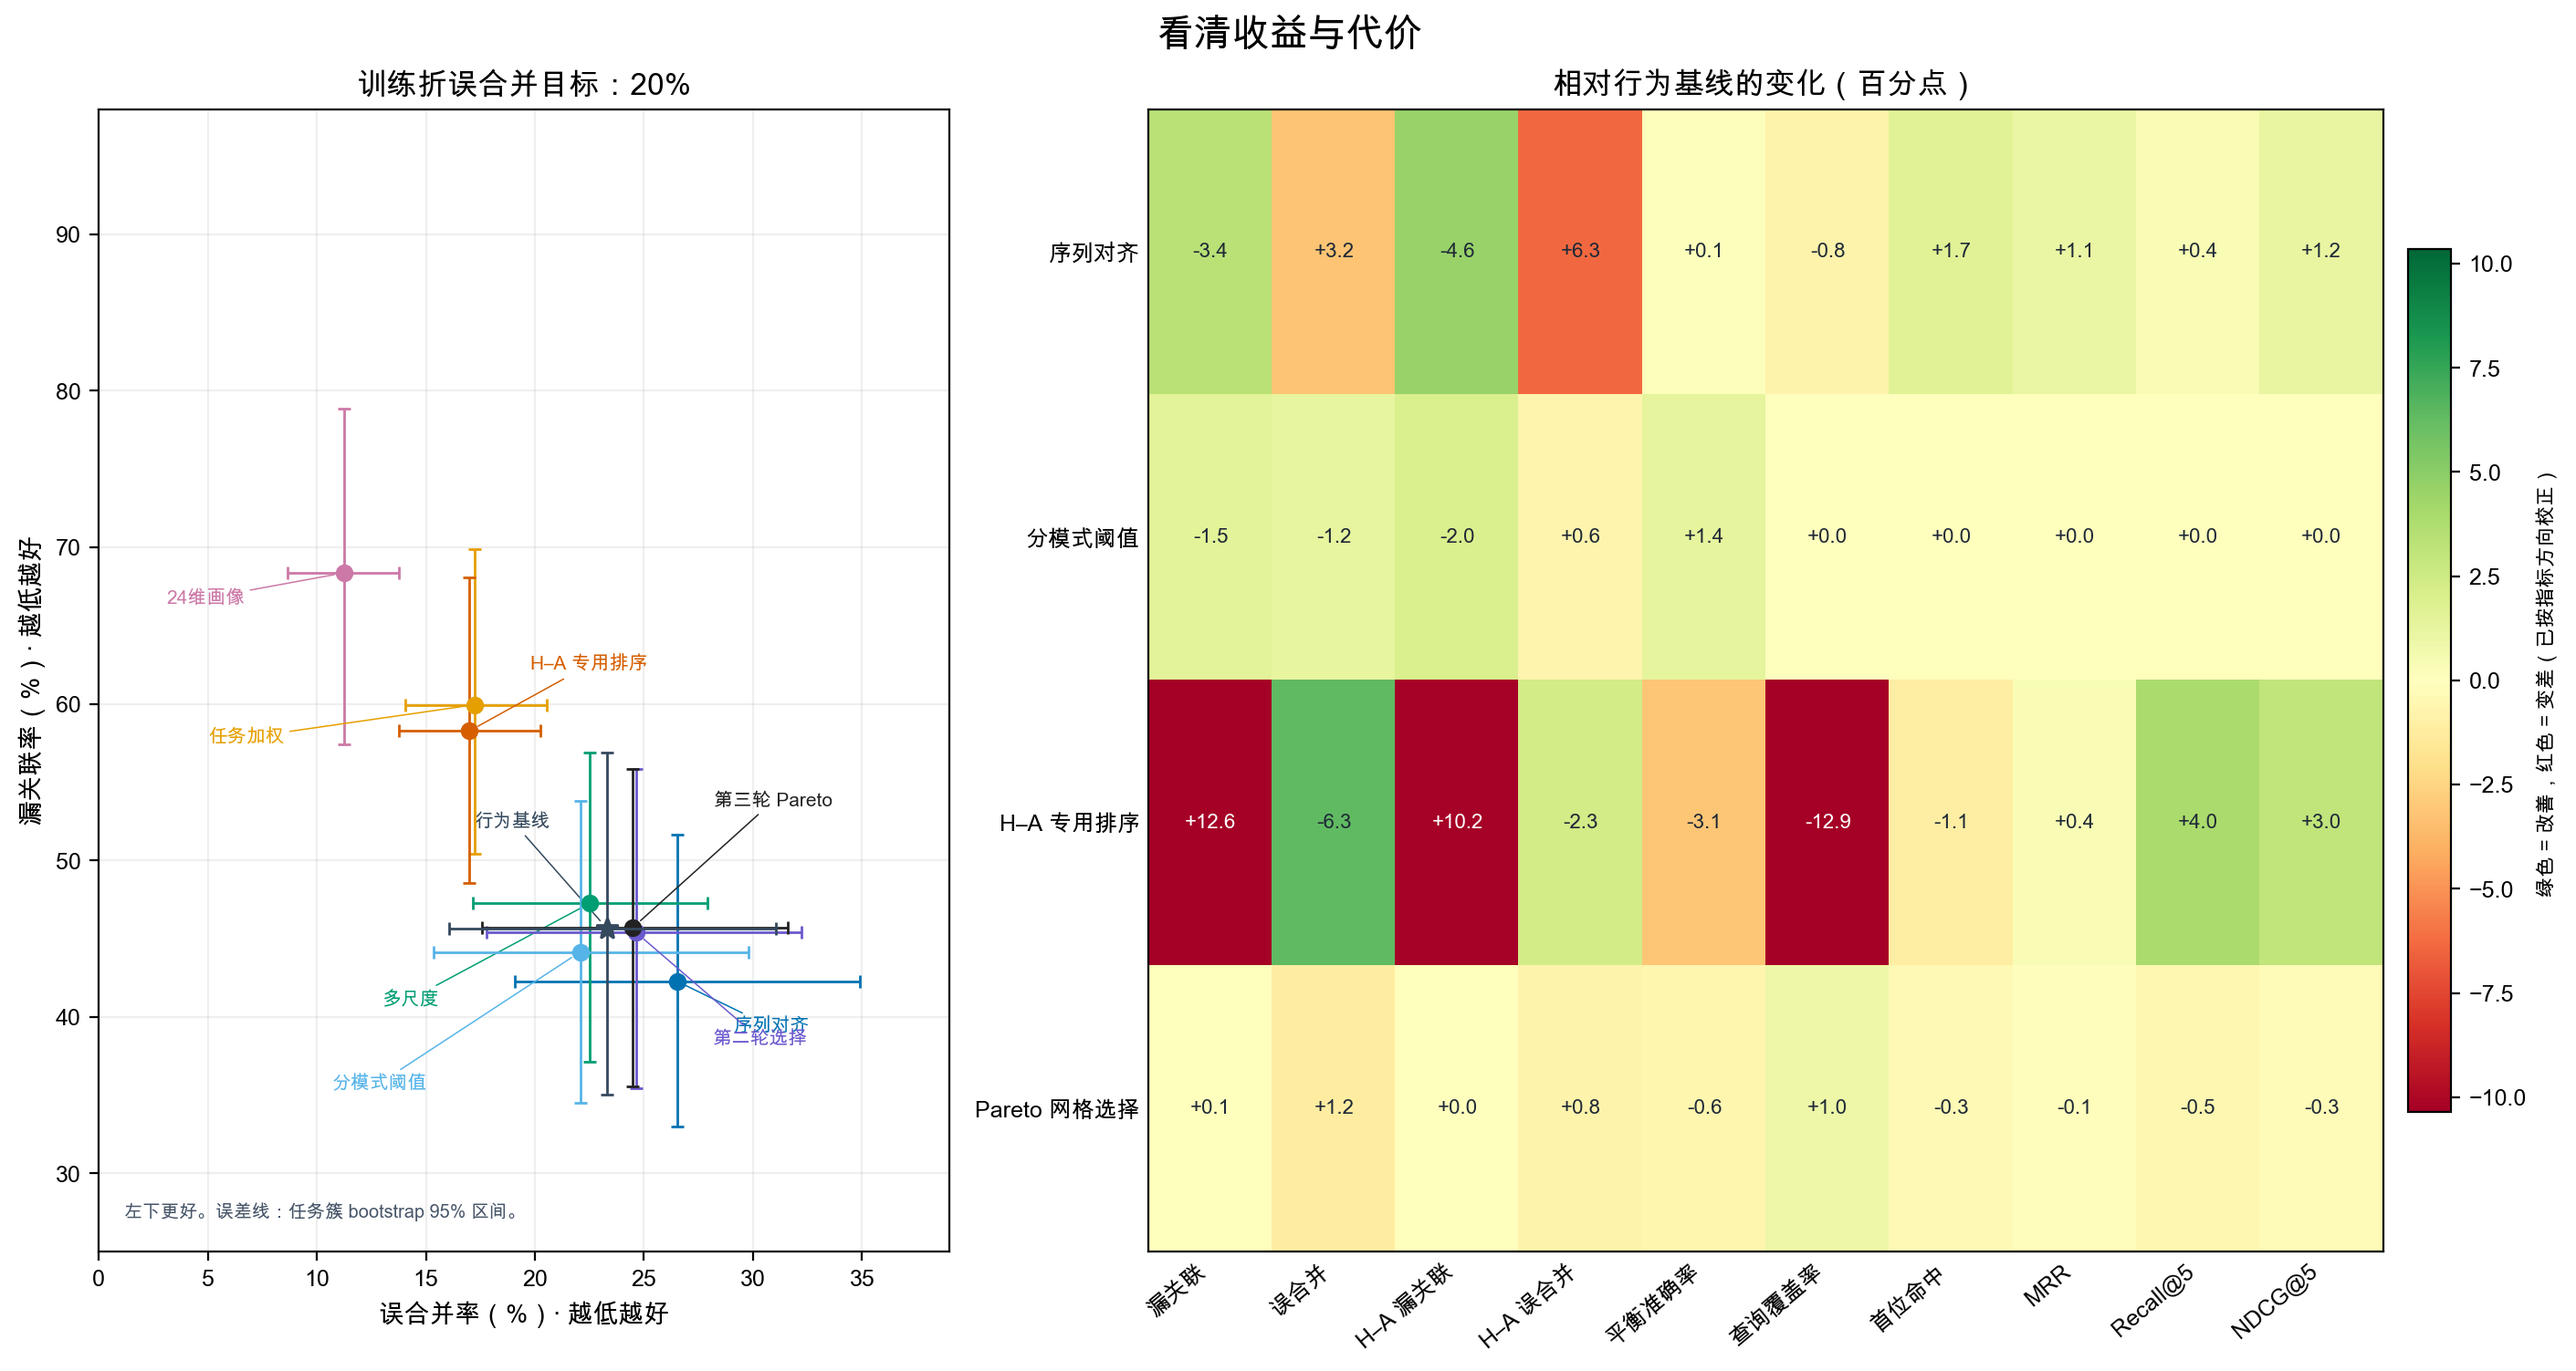
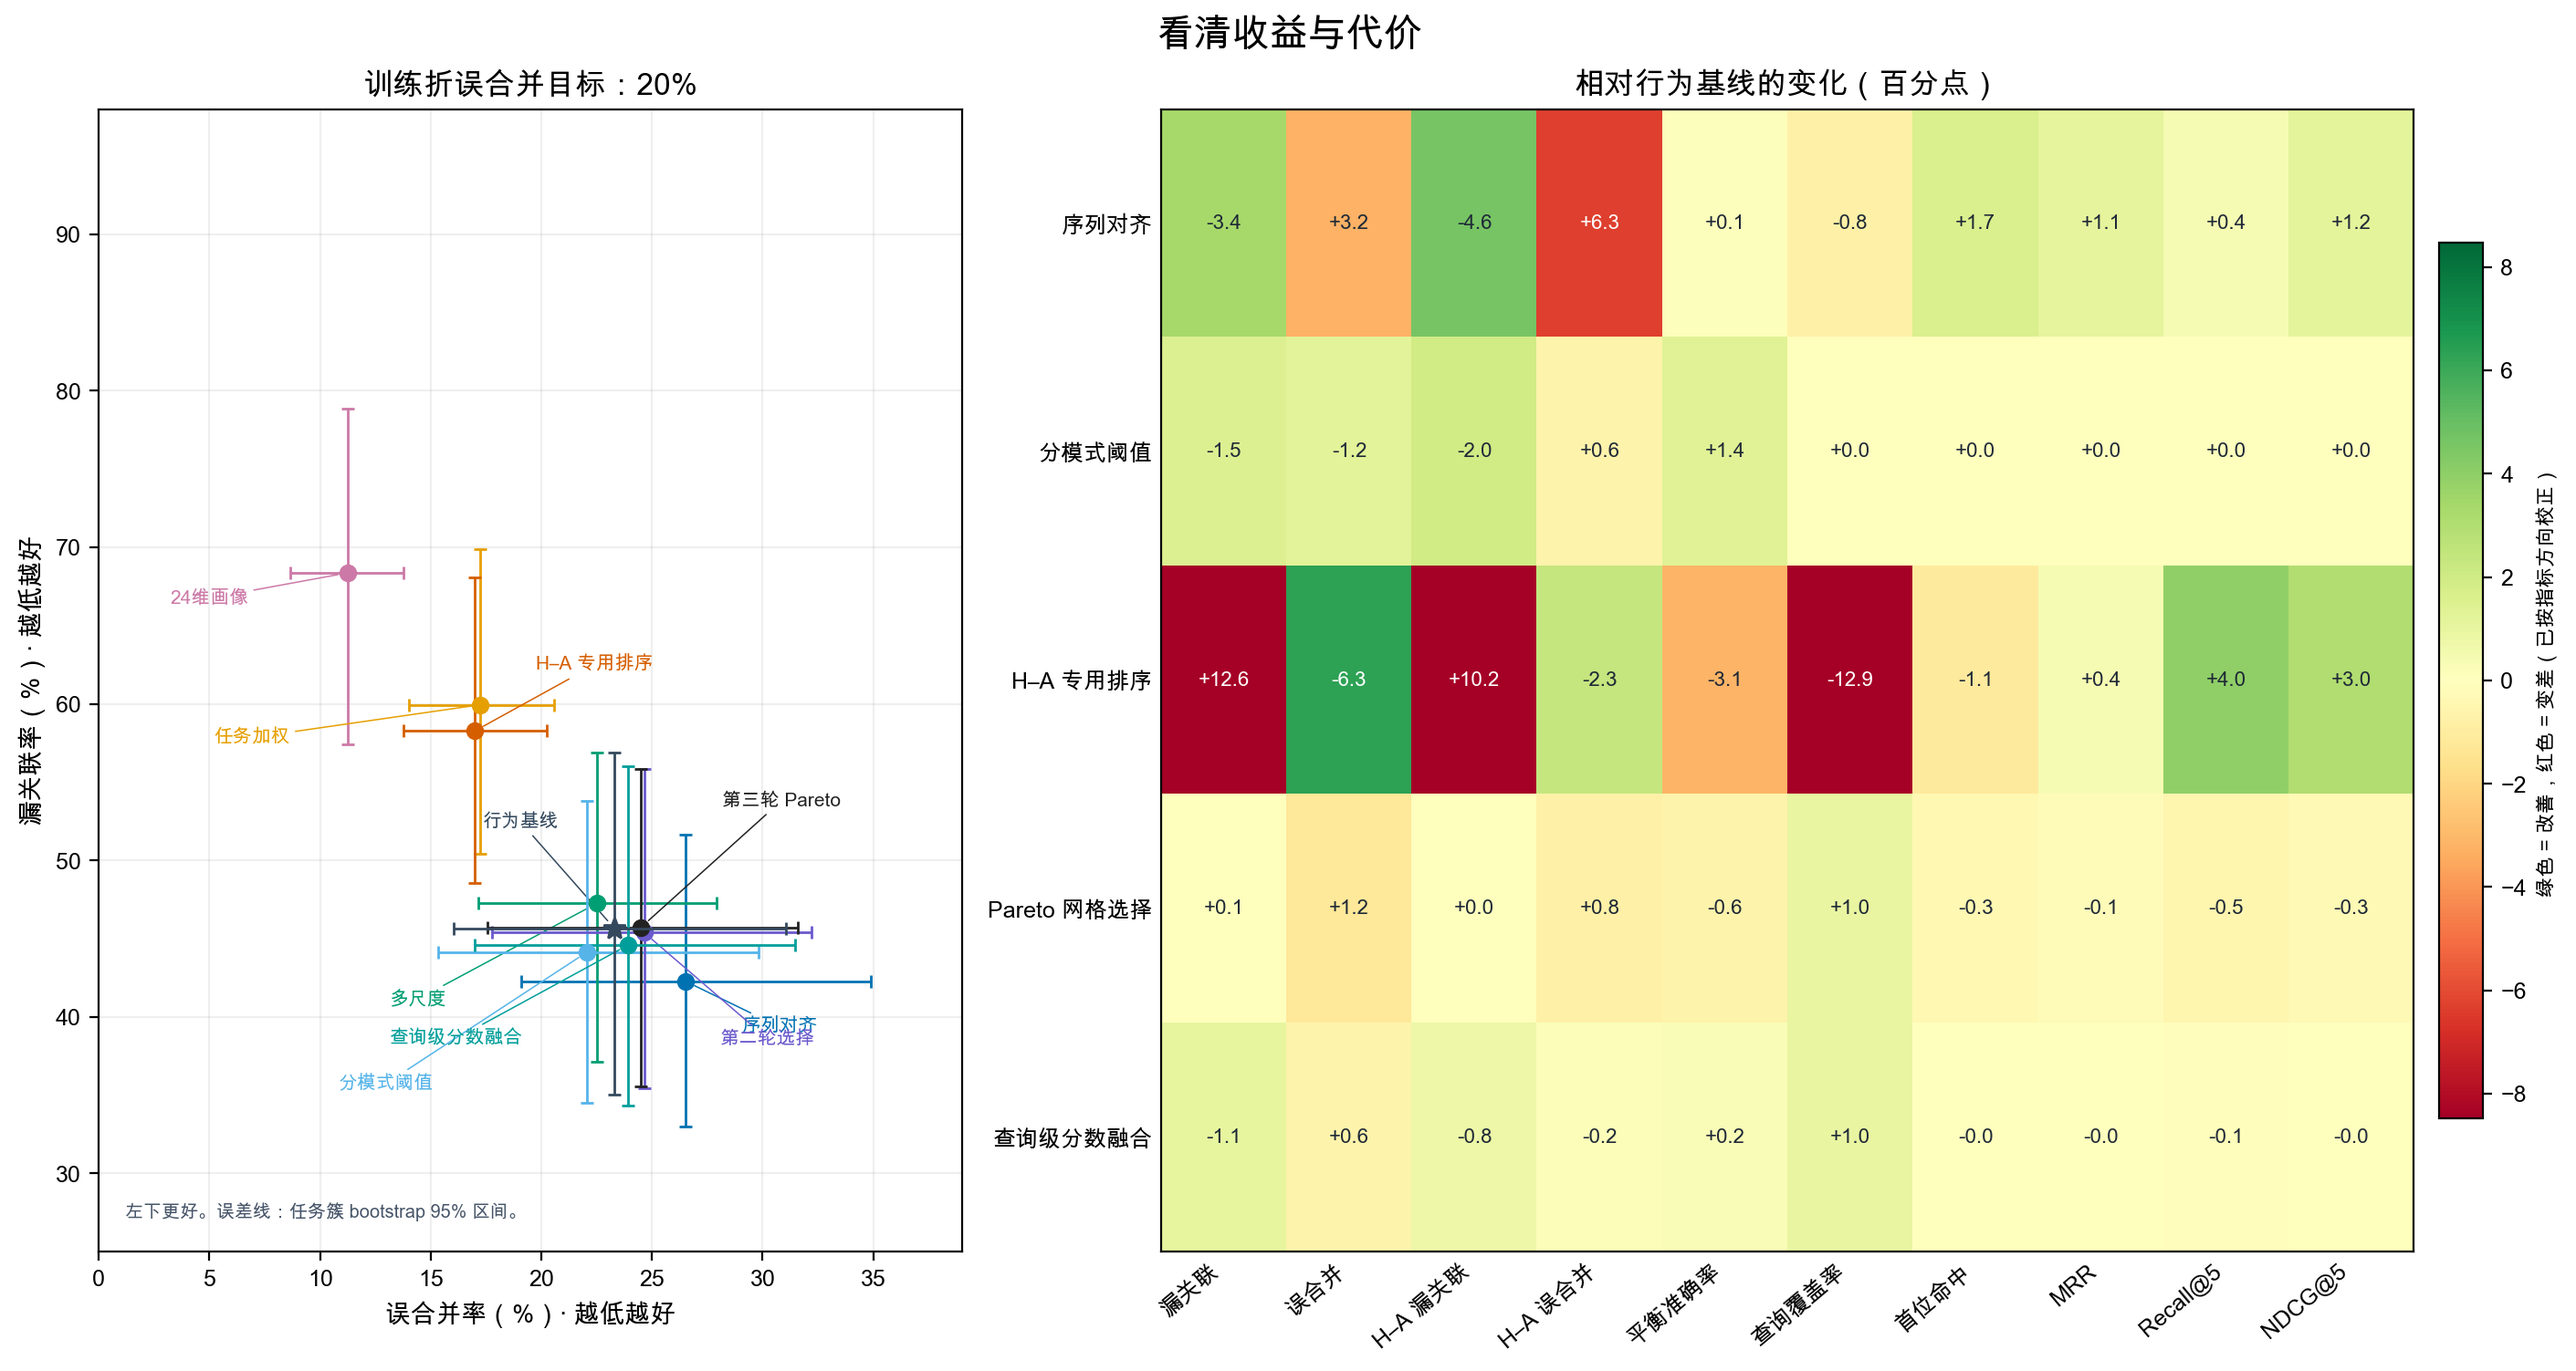
Publish query-rank recall optimization results

diff --git a/execution-mode-behavior-correlation.html b/execution-mode-behavior-correlation.html
@@ -47,7 +47,7 @@
 <div class="result-intro">
 <h2 data-en="Earlier result: execution-mode evidence recovered links and introduced false links">先前结果：执行方式信号找回部分轨迹，也带来误关联</h2>
 <p data-en="Compared with behavior-only ranking, adding the predicted Human/Agent score improves the top-ranked match rate by 3.6 percentage points. Missed links between same-task Human and Agent traces fall by 12.7 points. But false links between different-task Human and Agent traces rise by 11.9 points, and the overall false-link rate increases from 23.3% to 24.5%.">与只看行为相比，加入预测的“人类/Agent”分数后，首位命中率提高 3.6 个百分点；同题人类—Agent 轨迹漏关联下降 12.7 个百分点。但异题人类—Agent 轨迹错误关联增加 11.9 个百分点，整体错误关联率从 23.3% 升到 24.5%。</p>
-<p class="caption" data-en="Top-ranked match rate asks whether the first result comes from the same CTF task. Here, “same task” is only a benchmark label; it does not mean the traces came from the same attack. In plain terms, execution-mode scores recover some cross-mode matches but also connect more unrelated traces.">首位命中率看排名第一的候选是否来自同一道 CTF 题。“同题”只是基准标签，不代表来自同一次攻击。简单来说，执行方式分数找回了一些跨方式轨迹，也让更多无关轨迹被连在一起。</p><p class="caption"><a href="#recall-optimization" data-en="See the three-round follow-up experiment">查看后续三轮优化实验</a></p>
+<p class="caption" data-en="Top-ranked match rate asks whether the first result comes from the same CTF task. Here, “same task” is only a benchmark label; it does not mean the traces came from the same attack. In plain terms, execution-mode scores recover some cross-mode matches but also connect more unrelated traces.">首位命中率看排名第一的候选是否来自同一道 CTF 题。“同题”只是基准标签，不代表来自同一次攻击。简单来说，执行方式分数找回了一些跨方式轨迹，也让更多无关轨迹被连在一起。</p><p class="caption"><a href="#recall-optimization" data-en="See the four-round follow-up experiment">查看后续四轮优化实验</a></p>
 </div>
 <details class="source-details"><summary data-en="How did we identify execution mode from traces?">展开：识别器用了哪些轨迹特征？</summary><div class="study-table-wrap">
 <p class="caption" data-en="We compare three kinds of evidence: trace size and action mix, command names, and command order. Command names carry the strongest Human/Agent label signal in this dataset. Adding sequence statistics changes balanced accuracy by −2.0 points for logistic regression and +1.4 for ExtraTrees.">我们比较三类线索：轨迹长度与动作组成、命令名称、命令顺序。在这批数据中，命令名称对 Human/Agent 标签的区分信号最强。加入序列统计后，逻辑回归平衡准确率下降 2.0 个百分点，ExtraTrees 上升 1.4 个百分点。</p>
@@ -266,14 +266,15 @@ type=EXECVE msg=audit(1700000002.250:411): argc=2 a0=67726570 a1=2d6e</code></pr
 <noscript><p>页面需要启用 JavaScript 才能播放阶段动画；静态张量图仍可查看。</p></noscript>
 </div>
 <section aria-labelledby="recall-optimization-title" class="profile-result recall-result" id="recall-optimization">
-<div class="profile-result-head"><span class="tensor-kicker" data-en="THREE ROUNDS · TASK-HELD-OUT">三轮优化 · 按任务留出</span><h3 data-en="No method improved all ten metrics" id="recall-optimization-title">三轮实验都没找到十项指标同时变好的方法</h3><p data-en="We compared 177 traces across 40 task groups and three public CTF datasets. The nearest compromise lowered several missed-link rates, but raised Human–Agent false merges. A stricter selector chose a new method in only one of three held-out folds.">我们在 3 个公开 CTF 数据集的 177 条轨迹、40 个任务组上比较了多种方案。最接近折中的分模式阈值降低了几项漏关联，但增加了人类—Agent 误关联。更严格的筛选只在 3 折中的 1 折选出新方法。</p></div>
-<div aria-label="三种方案的主要关联指标" class="profile-result-cards recall-result-cards" data-en-aria-label="Key association metrics for three methods">
+<div class="profile-result-head"><span class="tensor-kicker" data-en="FOUR ROUNDS · TASK-HELD-OUT">四轮优化 · 按任务留出</span><h3 data-en="No method improved all ten metrics" id="recall-optimization-title">四轮实验都没找到十项指标同时变好的方法</h3><p data-en="We compared 177 traces across 40 task groups and three public CTF datasets. The fourth-round query-rank fusion reduced missed links and Human–Agent false merges, but increased overall false merges. The all-metric selector used the fusion in only one of three held-out folds.">我们在 3 个公开 CTF 数据集的 177 条轨迹、40 个任务组上比较了多种方案。第四轮查询级融合降低了漏关联和人类—Agent 误合并，但总体误合并上升。全指标筛选只在 3 折中的 1 折选用融合方法。</p></div>
+<div aria-label="四种方案的主要关联指标" class="profile-result-cards recall-result-cards" data-en-aria-label="Key association metrics for four methods">
 <article><h4 data-en="Behavior baseline">行为基线</h4><dl><div><dt data-en="Missed links">漏关联</dt><dd>45.7%</dd></div><div><dt data-en="False merges">误合并</dt><dd>23.3%</dd></div><div><dt data-en="Human–Agent false merges">人类—Agent 误合并</dt><dd>15.5%</dd></div></dl></article>
 <article class="profile-result-card-emphasis"><h4 data-en="Mode-specific thresholds">分模式阈值</h4><dl><div><dt data-en="Missed links">漏关联</dt><dd>44.2%</dd></div><div><dt data-en="False merges">误合并</dt><dd>22.1%</dd></div><div><dt data-en="Human–Agent false merges">人类—Agent 误合并</dt><dd>16.2%</dd></div></dl></article>
 <article><h4 data-en="Strict all-metric selection">严格全指标筛选</h4><dl><div><dt data-en="Missed links">漏关联</dt><dd>45.7%</dd></div><div><dt data-en="False merges">误合并</dt><dd>24.5%</dd></div><div><dt data-en="Human–Agent false merges">人类—Agent 误合并</dt><dd>16.3%</dd></div></dl></article>
+<article><h4 data-en="Query-rank fusion · selected in 1/3 folds">查询级分数融合 · 仅入选 1/3 折</h4><dl><div><dt data-en="Missed links">漏关联</dt><dd>44.6%</dd></div><div><dt data-en="False merges">误合并</dt><dd>23.9%</dd></div><div><dt data-en="Human–Agent false merges">人类—Agent 误合并</dt><dd>15.3%</dd></div></dl></article>
 </div>
-<p class="profile-result-delta" data-en="Mode-specific thresholds cut overall missed links by 1.5 points and false merges by 1.2, but increase Human–Agent false merges by 0.65 points (95% interval +0.33 to +1.04). The strict selector increases overall false merges by 1.20 points (+0.51 to +1.97). These results do not support an all-metric improvement.">分模式阈值让总体漏关联下降 1.50 个百分点、误合并下降 1.23 个百分点，但人类—Agent 误合并上升 0.65 个百分点（95% 区间 +0.33 至 +1.04）。严格筛选使总体误合并上升 1.20 个百分点（+0.51 至 +1.97）。现有结果不支持“所有指标都改善”。</p>
-<figure class="profile-result-figure"><img alt="误合并与漏关联权衡图，以及十项指标相对行为基线的百分点变化。" data-en-alt="False-merge versus missed-link tradeoffs and percentage-point changes across ten metrics relative to the behavior baseline." data-en-src="assets/recall-optimization-comparison-en.png" loading="lazy" src="assets/recall-optimization-comparison-zh.png"/><figcaption data-en="Left: held-out error rates with task-bootstrap 95% intervals. Right: ten metric changes; green means improvement after adjusting for metric direction. Ranking is unchanged by threshold-only methods. Full intervals and methods are in the report.">左图：留出任务上的误合并与漏关联率，误差线为任务簇 95% 区间。右图：十项指标的变化，颜色已按指标方向校正；单独调整阈值不会改变排序。完整区间和方法见实验报告。</figcaption></figure>
+<p class="profile-result-delta" data-en="Query-rank fusion reduced overall missed links by 1.05 points (95% interval −2.22 to −0.12) and Human–Agent false merges by 0.20 (−0.43 to −0.01), but raised overall false merges by 0.64 (+0.14 to +1.26). Ranking shifts were near zero and their intervals crossed zero. No tested policy improved all ten metrics.">查询级融合让总体漏关联下降 1.05 个百分点（95% 区间 −2.22 至 −0.12），人类—Agent 误合并下降 0.20（−0.43 至 −0.01），但总体误合并上升 0.64（+0.14 至 +1.26）。排序变化接近零且区间跨零。当前没有方案让十项指标同时改善。</p>
+<figure class="profile-result-figure"><img alt="四轮方法的误合并—漏关联权衡，以及十项指标相对行为基线的百分点变化。" data-en-alt="False-merge versus missed-link tradeoffs and percentage-point changes across ten metrics for four experiment rounds." data-en-src="assets/recall-optimization-comparison-en.png" loading="lazy" src="assets/recall-optimization-comparison-zh.png"/><figcaption data-en="Left: held-out error rates with task-bootstrap 95% intervals. Right: ten metric changes; green means improvement after adjusting for metric direction. Query-rank fusion is selected in one outer fold and falls back in two; threshold-only methods leave rankings unchanged. Full intervals and methods are in the report.">左图：留出任务上的误合并与漏关联率，误差线为任务簇 95% 区间。右图：十项指标的变化，颜色已按指标方向校正。查询级融合只在一个外层折选中，另外两折回退基线；单独调整阈值不会改变排序。完整区间和方法见实验报告。</figcaption></figure>
 <a class="profile-result-report" data-en="Read the experiment report" href="https://github.com/mcxiaoxiao/AttackAgentDetect/blob/main/15-%E6%BC%8F%E5%85%B3%E8%81%94%E4%BC%98%E5%8C%96%E5%AE%9E%E9%AA%8C%E7%BB%93%E6%9E%9C.md">查看实验结果与后续计划</a>
 <p class="profile-result-limit" data-en="The study reuses 40 tasks already inspected during development. “Same task” is a retrieval proxy, not evidence of a shared person, attacker, or organization. Human terminal input and Agent tool calls also come from different capture interfaces.">这项研究复用了开发中已查看过的 40 道题。“同题”只作检索代理标签，不能证明轨迹来自同一人、攻击者或组织。Human 终端输入和 Agent 工具调用也来自不同采集接口。</p>
 <details class="source-details"><summary data-en="Earlier 24-feature profile result">先前的 24 维画像结果</summary><p data-en="The profile fusion lowered false merges (23.3% to 7.3%) but increased missed links (45.7% to 71.0%). It is a historical comparison, not a solution to the current all-metric goal.">画像融合曾把误合并从 23.3% 降到 7.3%，同时让漏关联从 45.7% 升到 71.0%。这是早期对照，尚不能解决本轮“全指标同时改善”的目标。</p><p class="result-links"><a data-en="Earlier profile study and full results" href="https://github.com/mcxiaoxiao/AttackAgentDetect/blob/main/13-%E5%A4%9A%E7%BB%B4%E8%A1%8C%E4%B8%BA%E7%94%BB%E5%83%8F%E5%85%B3%E8%81%94%E5%AE%9E%E9%AA%8C%E7%BB%93%E6%9E%9C.md">早期画像实验完整结果</a></p></details>

diff --git a/tensor-demo.css b/tensor-demo.css
@@ -72,7 +72,7 @@
 .profile-result-figure img { display: block; width: 100%; height: auto; }
 .profile-result-figure figcaption { padding: 9px 14px 11px; border-top: 1px solid var(--line); color: var(--muted); font: 400 11px/1.6 var(--font-body); }
 .profile-result-limit { padding-top: 13px; border-top: 1px solid var(--line); }
-.recall-result-cards { grid-template-columns: repeat(3, minmax(0, 1fr)); }
+.recall-result-cards { grid-template-columns: repeat(2, minmax(0, 1fr)); }
 .recall-result-cards dd { font-size: clamp(19px, 2vw, 25px); }
 .recall-result > details { border-top: 1px solid var(--line); padding-top: 12px; }
 .recall-result > details > summary { color: var(--blue-deep); cursor: pointer; font: 600 12px/1.5 var(--font-body); }
